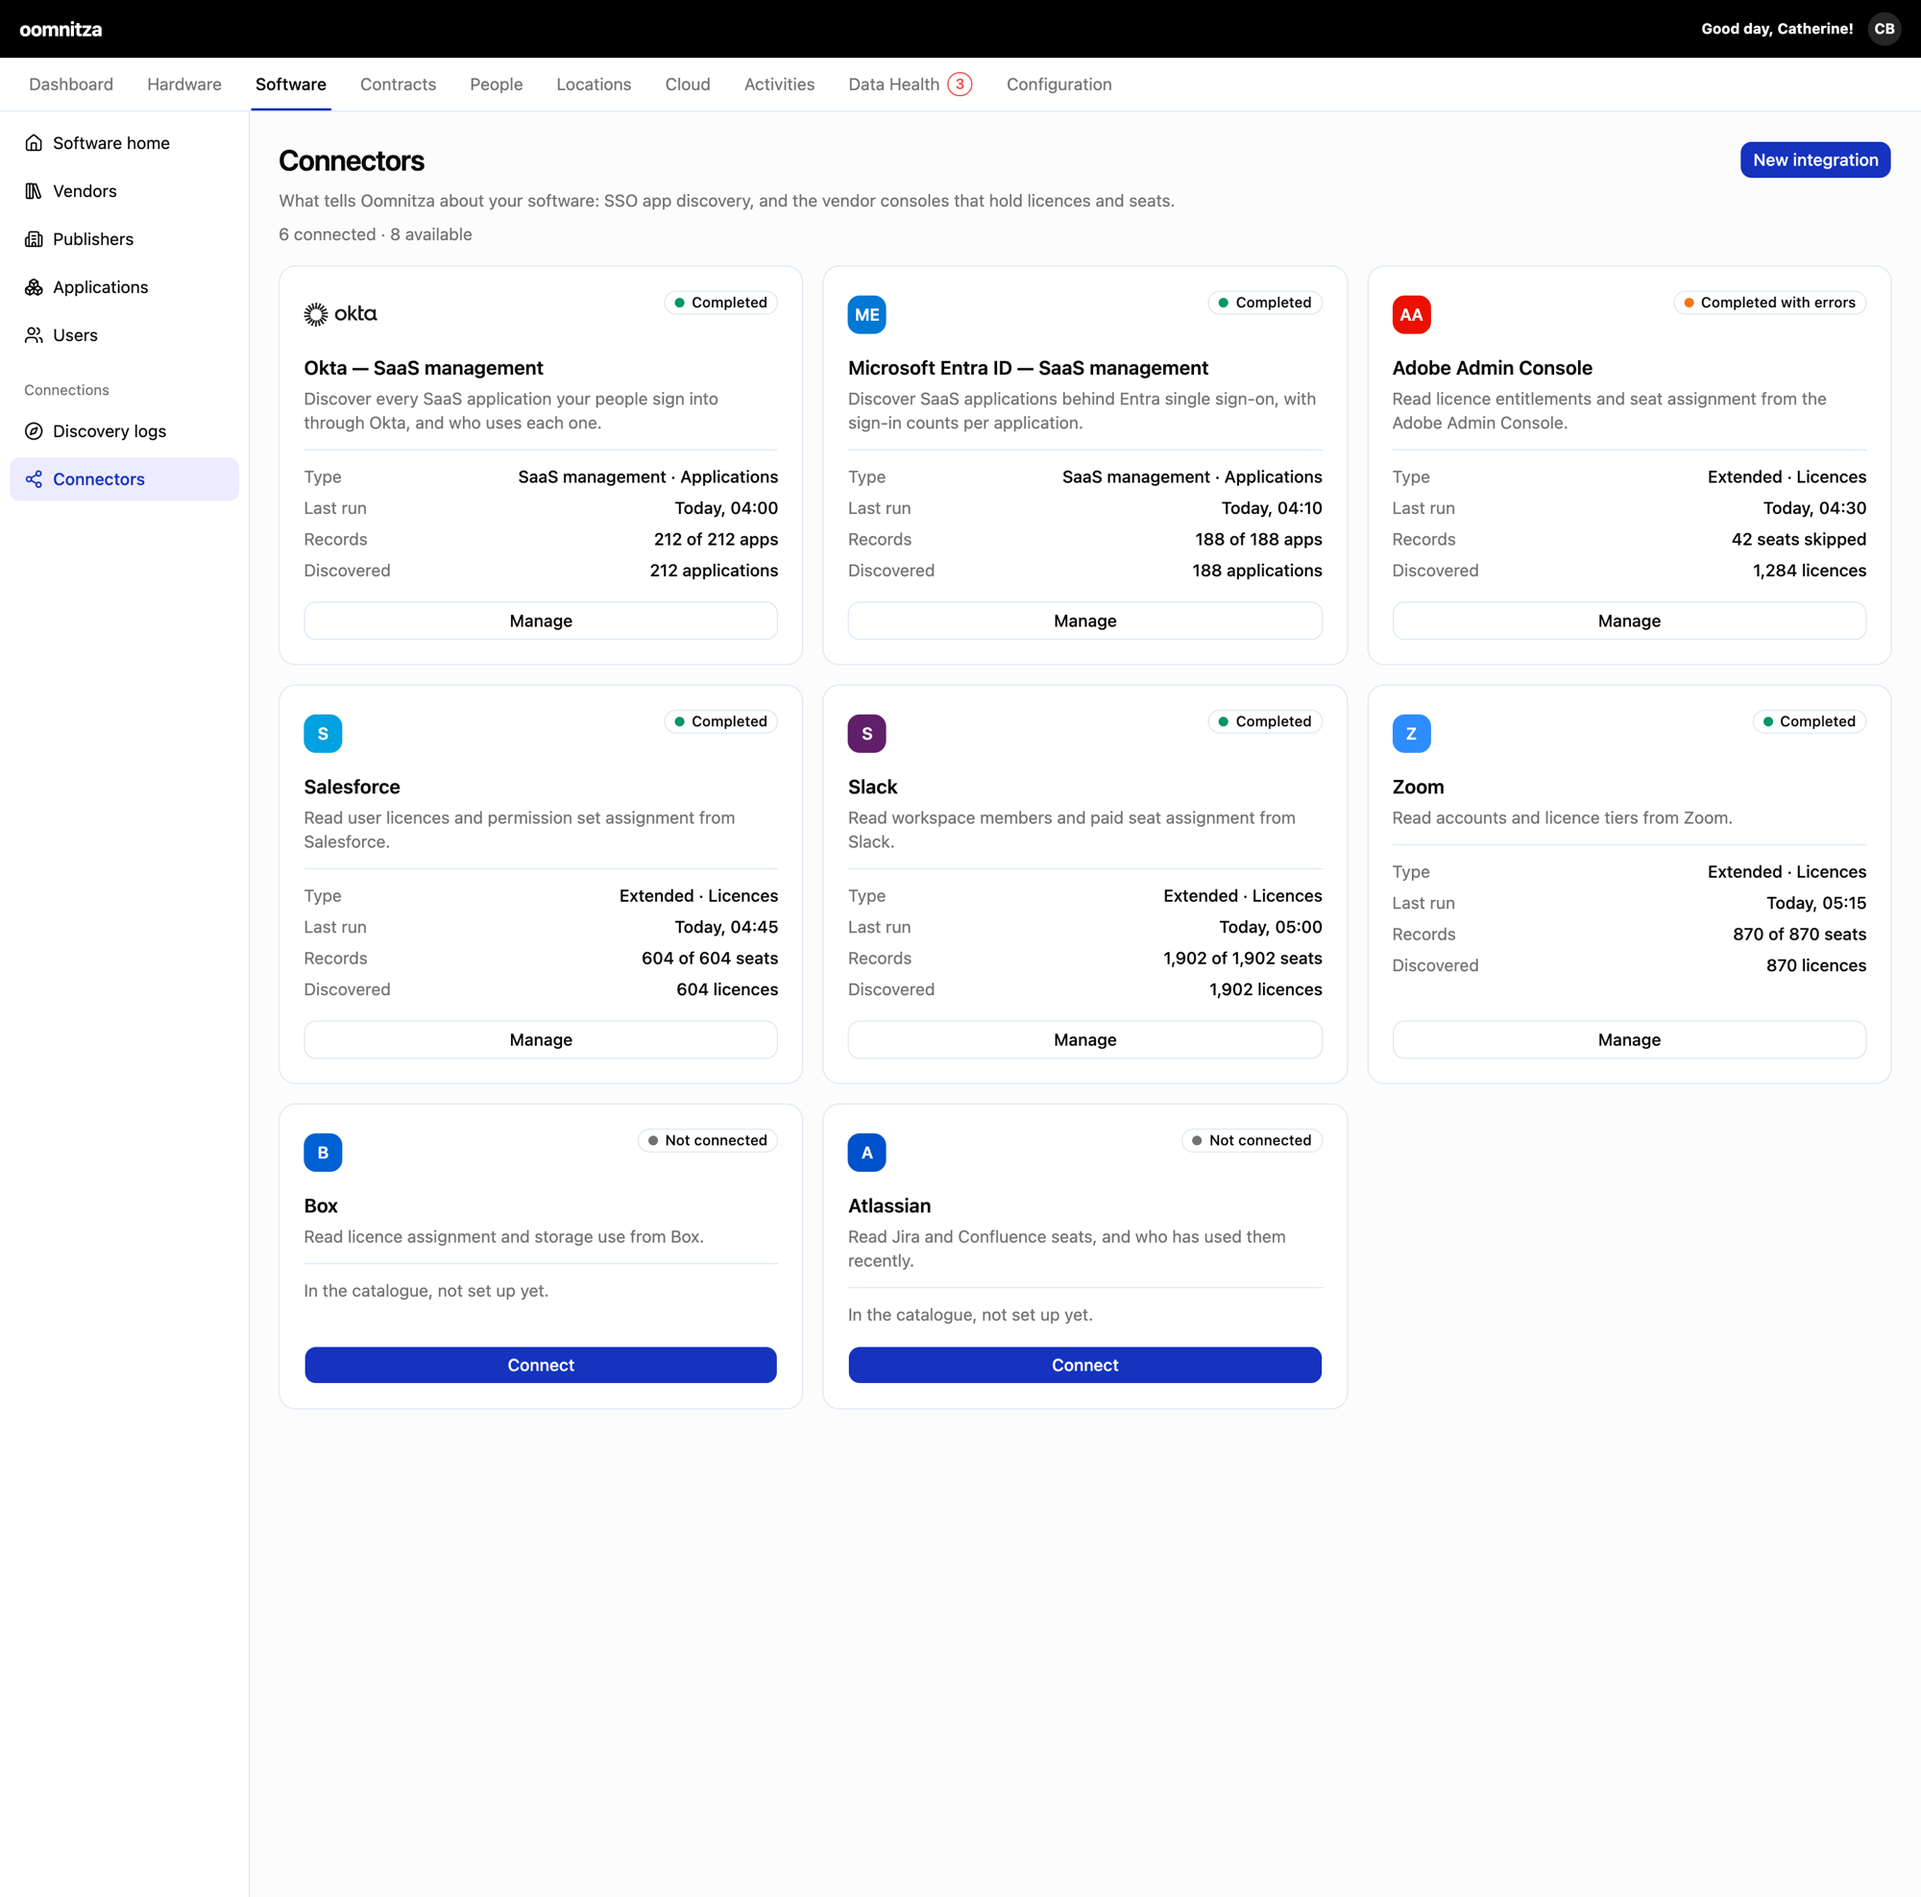
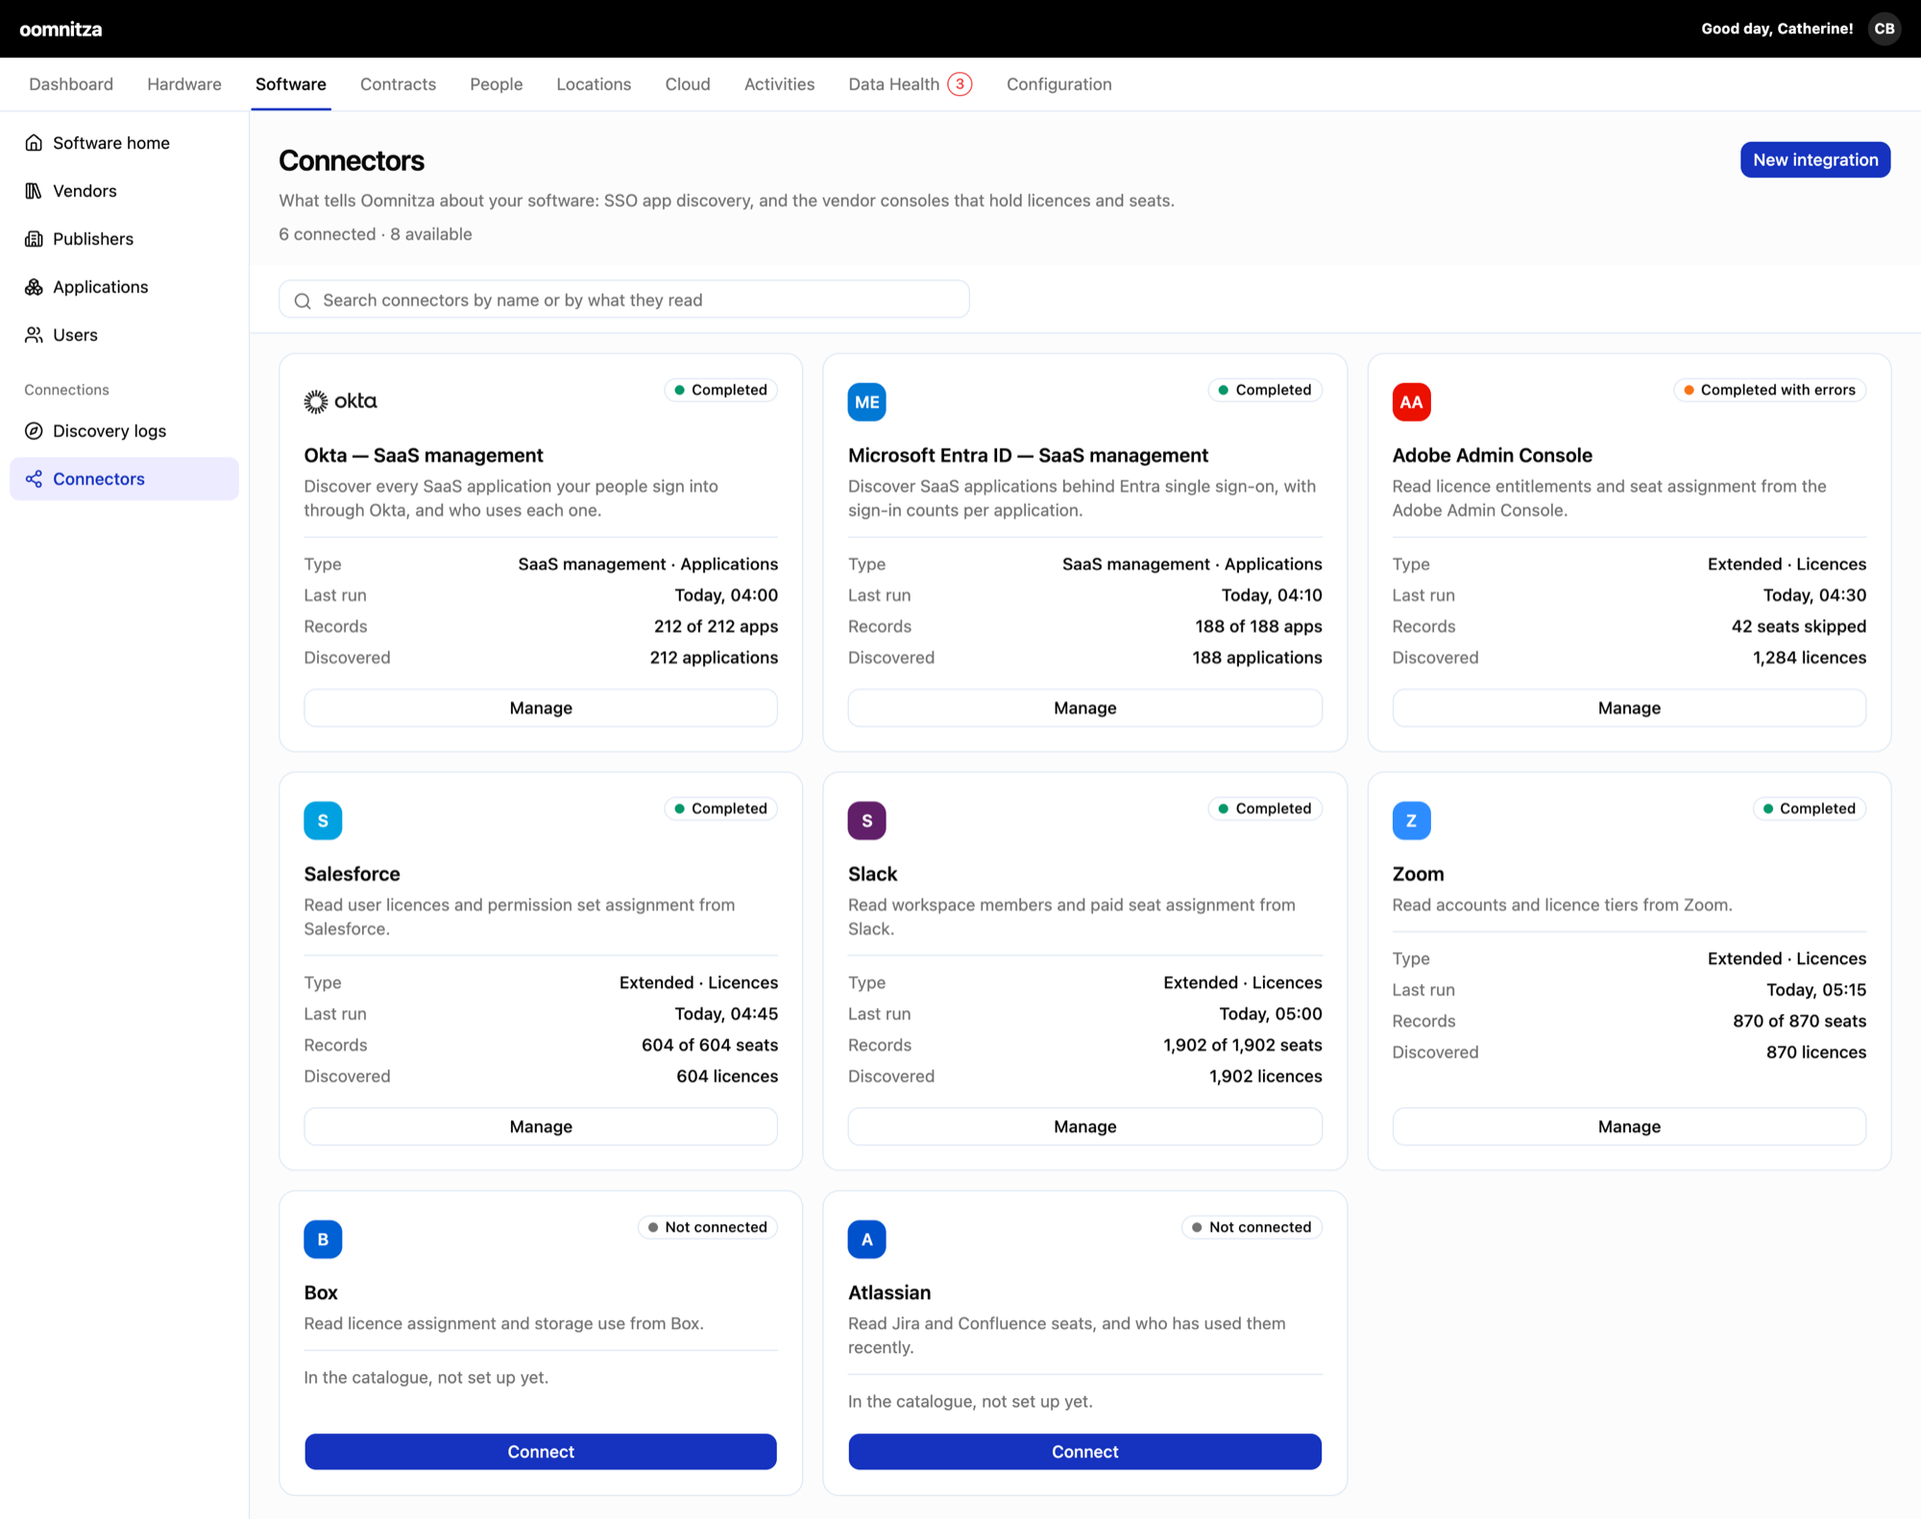
Show the catalogue search in the case study
Fig. M re-shot with the search in place, and a paragraph on why it searches
what a connector reads as well as who sells it.

diff --git a/portfolio/index.html b/portfolio/index.html
@@ -2018,10 +2018,11 @@ section[id]{scroll-margin-top:72px}
         <p>Everything above is one integration failing. The same question runs backwards through the platform: an automation only breaks because something mapped a field to it, and nobody said so at the time. So I designed the step before the failure, where a system gets connected.</p>
         <p>Mapping is what creates the dependency. An automation reads an Oomnitza field, so it depends on whichever integration fills that field. Today you learn that when the integration stops. Here the flow says it before launch, while adding a freshness gate is still cheap.</p>
         <figure class="sheet">
-          <div class="shot" style="aspect-ratio:2000/1975" data-zoom><img src="img/dh-connectors.png" alt="The connectors catalogue in the prototype: a three-column grid of cards, each with the vendor mark, a status pill, what the connector reads, and its type, last run, records and what it discovered." width="2000" height="1975" loading="lazy" decoding="async"></div>
+          <div class="shot" style="aspect-ratio:2000/1582" data-zoom><img src="img/dh-connectors.png" alt="The connectors catalogue in the prototype: a search field that stays with the reader, then a three-column grid of cards, each with the vendor mark, a status pill, what the connector reads, and its type, last run, records and what it discovered." width="2000" height="1582" loading="lazy" decoding="async"></div>
           <figcaption class="titleblock"><span>Fig. M</span><span class="tb-title">The catalogue: what tells Oomnitza about your software<span class="zoom-hint"> · hover to magnify</span></span><span>Real screens</span></figcaption>
         </figure>
         <p>Connectors are split by what they answer, not by vendor. SaaS discovery and the licence consoles sit under Software; the people and device syncs sit under Configuration. That split is Oomnitza’s own: it ships a separate integration for Okta users and for Okta SaaS management, so the same vendor appears in both areas as two integrations rather than one straddling the line.</p>
+        <p>Which is also why the search stays with the reader as the grid scrolls, and why it searches what a connector reads as well as who sells it. Someone who knows they need licence data often does not know which vendor console holds it. Focusing the field suggests what this catalogue can answer, the systems not set up yet and the types and states it holds, rather than popular searches, because nothing here counts them. A search that finds nothing says which of the two catalogues you are in and where the other one is.</p>
 
         <h3 class="mono hr-h">Seven steps, in a modal over the catalogue</h3>
         <p>Adding an integration is a detour, not a destination: it starts from the catalogue and ends back on it, so leaving half-done is a close rather than a navigation. Three of the steps came out of a pass over how Estuary, ClickUp, Fivetran and Airbyte handle the same job.</p>
